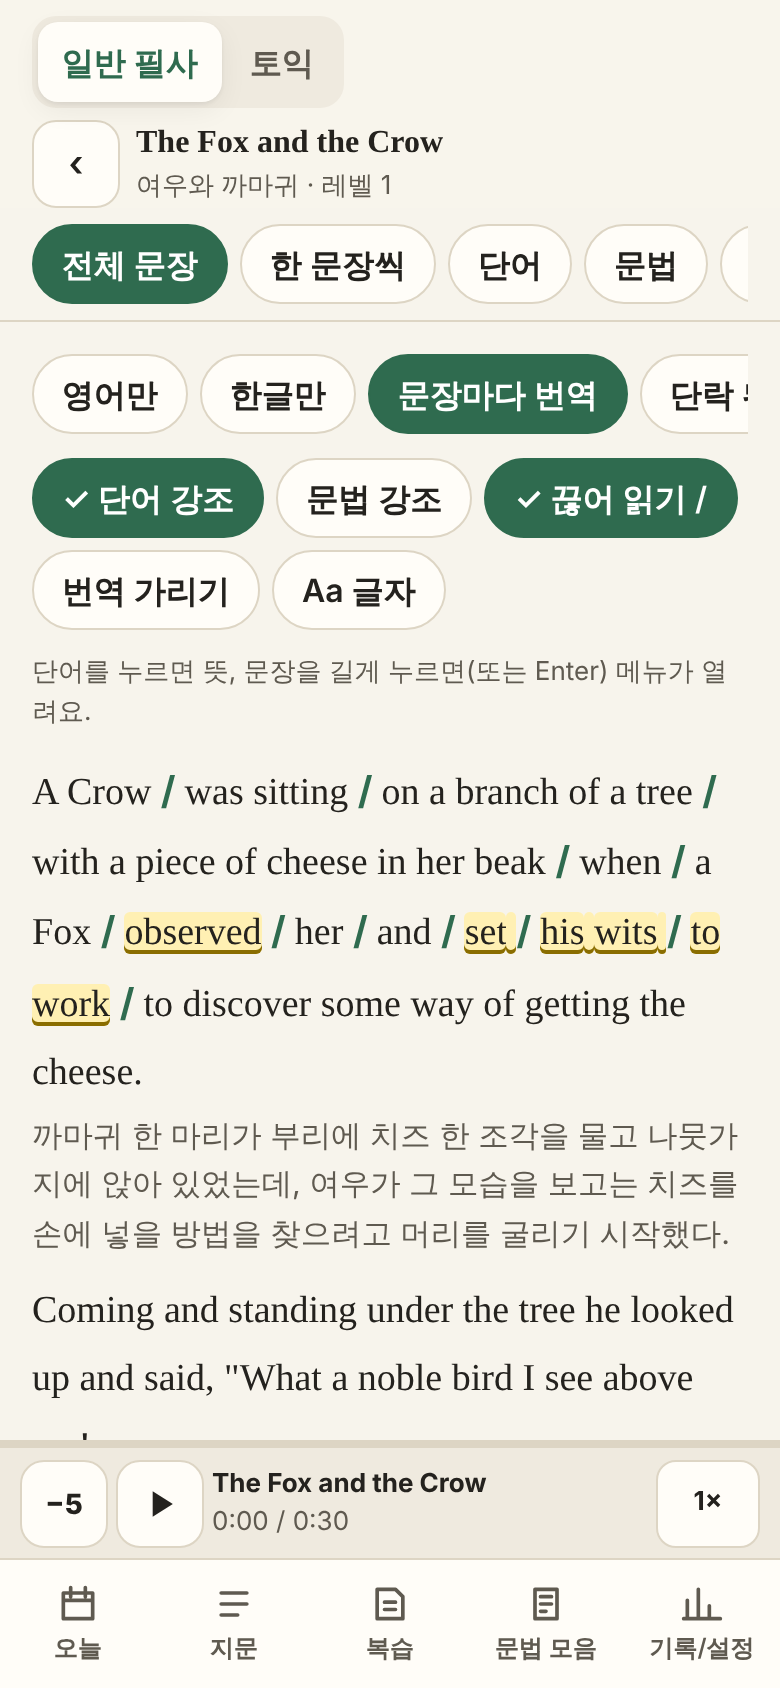
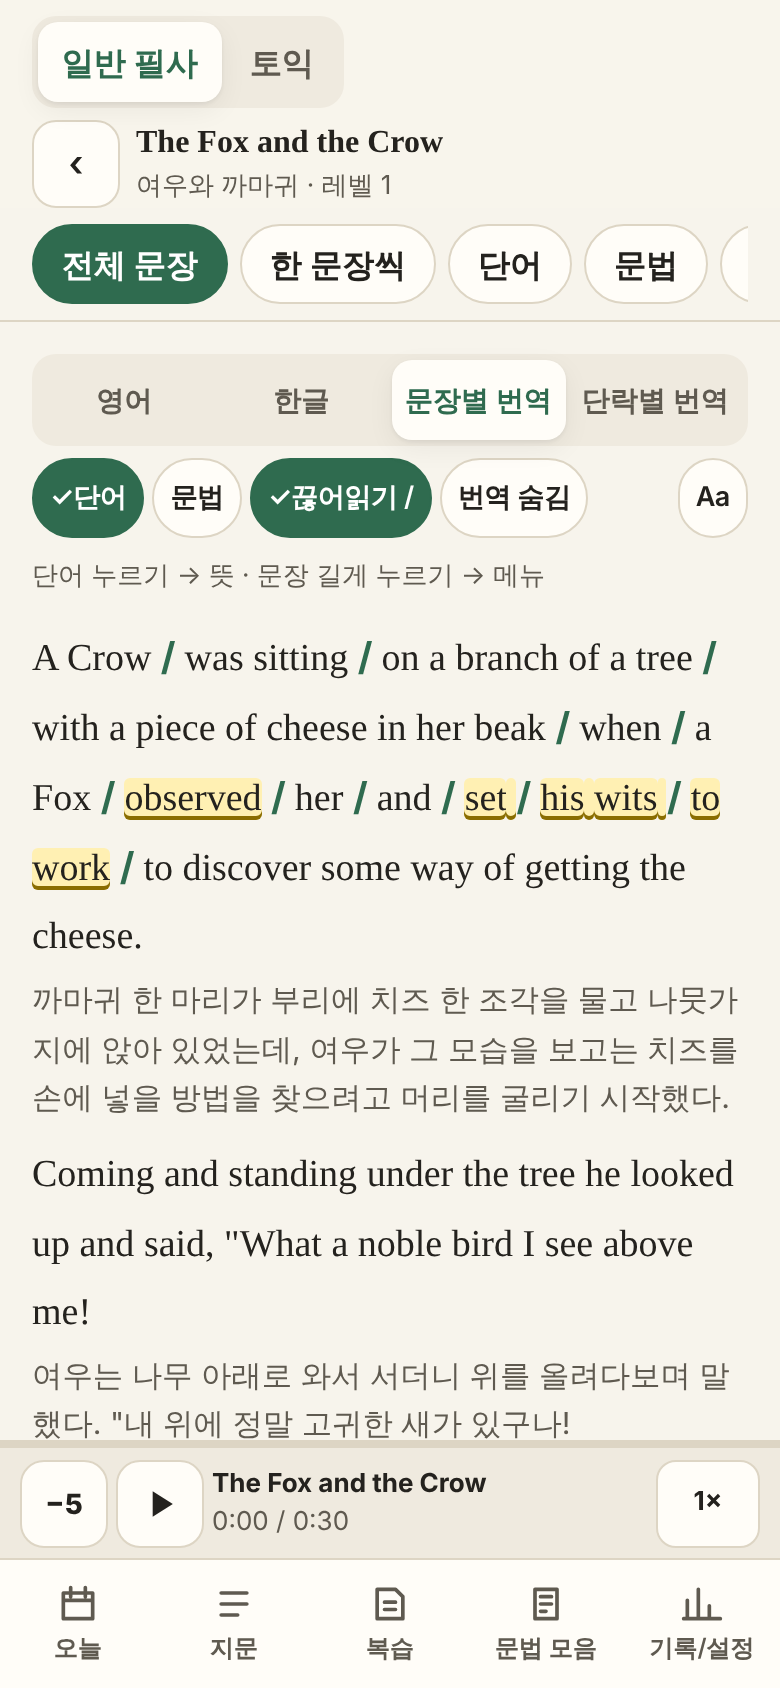
Full text: fit reading settings in two lines on phones
Display modes become one full-width segmented row with shorter labels;
toggles use compact chips; shorter hint line. E2E checks both rows stay
single-line at 390px with every toggle on.

Claude-Session: https://claude.ai/code/session_0118xnScJ6E9xPAtgZMMrbT4

Changed region(s): [[0.0308, 0.1848, 0.9846, 0.8626]]

diff --git a/src/pages/lesson/FullTextTab.tsx b/src/pages/lesson/FullTextTab.tsx
@@ -13,10 +13,10 @@ import { autoCheck } from '../../lib/progress';
 import { blankedSentence } from '../../lib/validateLesson';
 
 const MODES: { id: DisplayMode; label: string }[] = [
-  { id: 'en', label: '영어만' },
-  { id: 'ko', label: '한글만' },
-  { id: 'both-sentence', label: '문장마다 번역' },
-  { id: 'both-paragraph', label: '단락 뒤 번역' },
+  { id: 'en', label: '영어' },
+  { id: 'ko', label: '한글' },
+  { id: 'both-sentence', label: '문장별 번역' },
+  { id: 'both-paragraph', label: '단락별 번역' },
 ];
 
 export function FullTextTab({ lesson, lessonKey, gate }: TabProps) {
@@ -55,19 +55,20 @@ export function FullTextTab({ lesson, lessonKey, gate }: TabProps) {
 
   return (
     <div>
-      <div className={s.chips} role="group" aria-label="표시 모드">
+      {/* 두 줄: ① 표시 모드 ② 켜고 끄기 */}
+      <div className={`${s.seg} ${r.modeSeg}`} role="group" aria-label="표시 모드" data-testid="display-modes">
         {MODES.map((m) => (
-          <button key={m.id} type="button" className={s.chip} aria-pressed={st.displayMode === m.id} onClick={() => setSetting('displayMode', m.id)}>{m.label}</button>
+          <button key={m.id} type="button" className={s.segBtn} aria-pressed={st.displayMode === m.id} onClick={() => setSetting('displayMode', m.id)}>{m.label}</button>
         ))}
       </div>
-      <div className={r.toolbar}>
-        <Toggle on={st.hlVocab} set={(v) => setSetting('hlVocab', v)} label="단어 강조" />
-        <Toggle on={st.hlGrammar} set={(v) => setSetting('hlGrammar', v)} label="문법 강조" />
-        <Toggle on={st.showSlashes} set={(v) => setSetting('showSlashes', v)} label="끊어 읽기 /" />
-        <Toggle on={st.hideTranslation} set={(v) => { setSetting('hideTranslation', v); setRevealed(new Set()); }} label="번역 가리기" />
-        <details>
-          <summary className={s.chip} style={{ listStyle: 'none' }}>Aa 글자</summary>
-          <div className={s.card} style={{ position: 'absolute', zIndex: 30, marginTop: 4, width: 260 }}>
+      <div className={r.toolbar} data-testid="reading-toggles">
+        <Toggle on={st.hlVocab} set={(v) => setSetting('hlVocab', v)} label="단어" title="핵심 단어 강조" />
+        <Toggle on={st.hlGrammar} set={(v) => setSetting('hlGrammar', v)} label="문법" title="문법 강조" />
+        <Toggle on={st.showSlashes} set={(v) => setSetting('showSlashes', v)} label="끊어읽기 /" title="끊어 읽기 표시" />
+        <Toggle on={st.hideTranslation} set={(v) => { setSetting('hideTranslation', v); setRevealed(new Set()); }} label="번역 숨김" title="번역 가리기(탭하면 그 문장만 보임)" />
+        <details className={r.fontMenu}>
+          <summary className={`${s.chip} ${r.tchip}`} style={{ listStyle: 'none' }} title="글자 크기·줄 간격·글꼴">Aa</summary>
+          <div className={s.card} style={{ position: 'absolute', zIndex: 30, marginTop: 4, width: 260, right: 0 }}>
             <div className={s.row}>
               {[0, 1, 2, 3].map((n) => (
                 <button key={n} type="button" className={s.chip} aria-pressed={st.fontSize === n} onClick={() => setSetting('fontSize', n as 0 | 1 | 2 | 3)}
@@ -84,7 +85,7 @@ export function FullTextTab({ lesson, lessonKey, gate }: TabProps) {
           </div>
         </details>
       </div>
-      <p className={s.small + ' ' + s.muted} style={{ marginTop: 0 }}>단어를 누르면 뜻, 문장을 길게 누르면(또는 Enter) 메뉴가 열려요.</p>
+      <p className={s.small + ' ' + s.muted} style={{ marginTop: 0 }}>단어 누르기 → 뜻 · 문장 길게 누르기 → 메뉴</p>
 
       <article className={`${s.reading} ${st.serif ? '' : s.sansReading}`} lang="en" data-testid="full-text">
         {(() => {
@@ -155,10 +156,10 @@ function SentenceSpan({ sentence, current, bookmarked, hard, onLong, children }:
   );
 }
 
-export function Toggle({ on, set, label }: { on: boolean; set: (v: boolean) => void; label: string }) {
+export function Toggle({ on, set, label, title }: { on: boolean; set: (v: boolean) => void; label: string; title?: string }) {
   return (
-    <button type="button" className={s.chip} aria-pressed={on} onClick={() => set(!on)}>
-      {on ? '✓ ' : ''}{label}
+    <button type="button" className={`${s.chip} ${r.tchip}`} aria-pressed={on} onClick={() => set(!on)} title={title}>
+      {on ? '✓' : ''}{label}
     </button>
   );
 }

diff --git a/e2e/app.spec.ts b/e2e/app.spec.ts
@@ -41,12 +41,21 @@ for (const track of ['general', 'toeic'] as const) {
       ps.map((p) => [...p.querySelectorAll('[data-sentence]')].map((s) => s.textContent).join(' ')));
     expect(paras).toEqual(paraTexts(L[track]));
     // 끊어 읽기 표시를 켜도 텍스트는 그대로(/ 는 CSS 의사 요소)
-    await page.getByRole('button', { name: '끊어 읽기 /' }).click();
+    await page.getByRole('button', { name: '끊어읽기 /' }).click();
     const again = await article.locator('[data-sentence]').evaluateAll((ss) => ss.map((s) => s.textContent).join(' '));
     expect(again).toBe(paraTexts(L[track]).join(' '));
     await noHScroll(page);
   });
 }
+
+test('읽기 설정은 두 줄 안에 들어간다(모든 토글을 켜도)', async ({ page }) => {
+  await start(page, './#/general/lesson/2026-11-12-L1/full');
+  for (const name of ['문법', '끊어읽기 /', '번역 숨김']) await page.getByRole('button', { name, exact: true }).click();
+  const rows = async (tid: string) => page.getByTestId(tid).locator('> *').evaluateAll((els) => new Set(els.map((e) => Math.round(e.getBoundingClientRect().top))).size);
+  expect(await rows('display-modes')).toBe(1);
+  expect(await rows('reading-toggles')).toBe(1);
+  await noHScroll(page);
+});
 
 test('1-1. 트랙 전환: 목록·오늘 카드가 바뀌고 마지막 위치와 진행 기록은 따로', async ({ page }) => {
   await start(page, './#/general');

diff --git a/src/styles/reading.module.css b/src/styles/reading.module.css
@@ -10,7 +10,11 @@
 .koLine { display: block; font-family: var(--sans); font-size: 0.8em; color: var(--muted); margin: 2px 0 10px; line-height: 1.6; }
 .koPara { font-family: var(--sans); font-size: 0.82em; color: var(--muted); margin: -0.4em 0 1.3em; padding-left: 10px; border-left: 3px solid var(--line); }
 .hidden { filter: blur(6px); cursor: pointer; user-select: none; }
-.toolbar { display: flex; flex-wrap: wrap; gap: 6px; margin: 4px 0 12px; }
+.modeSeg { display: grid; grid-template-columns: repeat(4, 1fr); width: 100%; margin: 4px 0 6px; }
+.modeSeg > button { padding: 0 4px; font-size: 14px; min-height: 40px; }
+.toolbar { display: flex; flex-wrap: wrap; gap: 4px; margin: 0 0 10px; }
+.tchip { min-height: 40px; padding: 0 8px; font-size: 13.5px; letter-spacing: -0.2px; }
+.fontMenu { position: relative; margin-left: auto; }
 .memo { display: block; font-family: var(--sans); font-size: 13px; color: var(--warn); margin-bottom: 8px; }
 .oneCard { min-height: 46vh; display: flex; flex-direction: column; justify-content: center; gap: 16px; padding: 22px 18px; touch-action: pan-y; user-select: none; }
 .oneEn { font-family: var(--serif); font-size: calc(var(--read-size) + 3px); line-height: var(--read-lh); }

diff --git a/e2e/screenshots.spec.ts b/e2e/screenshots.spec.ts
@@ -23,11 +23,11 @@ test('주요 화면 캡처', async ({ page }) => {
   await page.screenshot({ path: `${dir}/01-home.png` });
 
   await page.goto(`${G}/full`);
-  await page.getByRole('button', { name: '문장마다 번역' }).click();
-  await page.getByRole('button', { name: '끊어 읽기 /' }).click();
+  await page.getByRole('button', { name: '문장별 번역' }).click();
+  await page.getByRole('button', { name: '끊어읽기 /' }).click();
   await page.screenshot({ path: `${dir}/02-full-text.png` });
-  await page.getByRole('button', { name: '영어만' }).click();
-  await page.getByRole('button', { name: '✓ 끊어 읽기 /' }).click();
+  await page.getByRole('button', { name: '영어', exact: true }).click();
+  await page.getByRole('button', { name: '✓끊어읽기 /' }).click();
 
   await page.goto(`${G}/vocab`);
   await page.getByTestId('vocab-flash').click();
